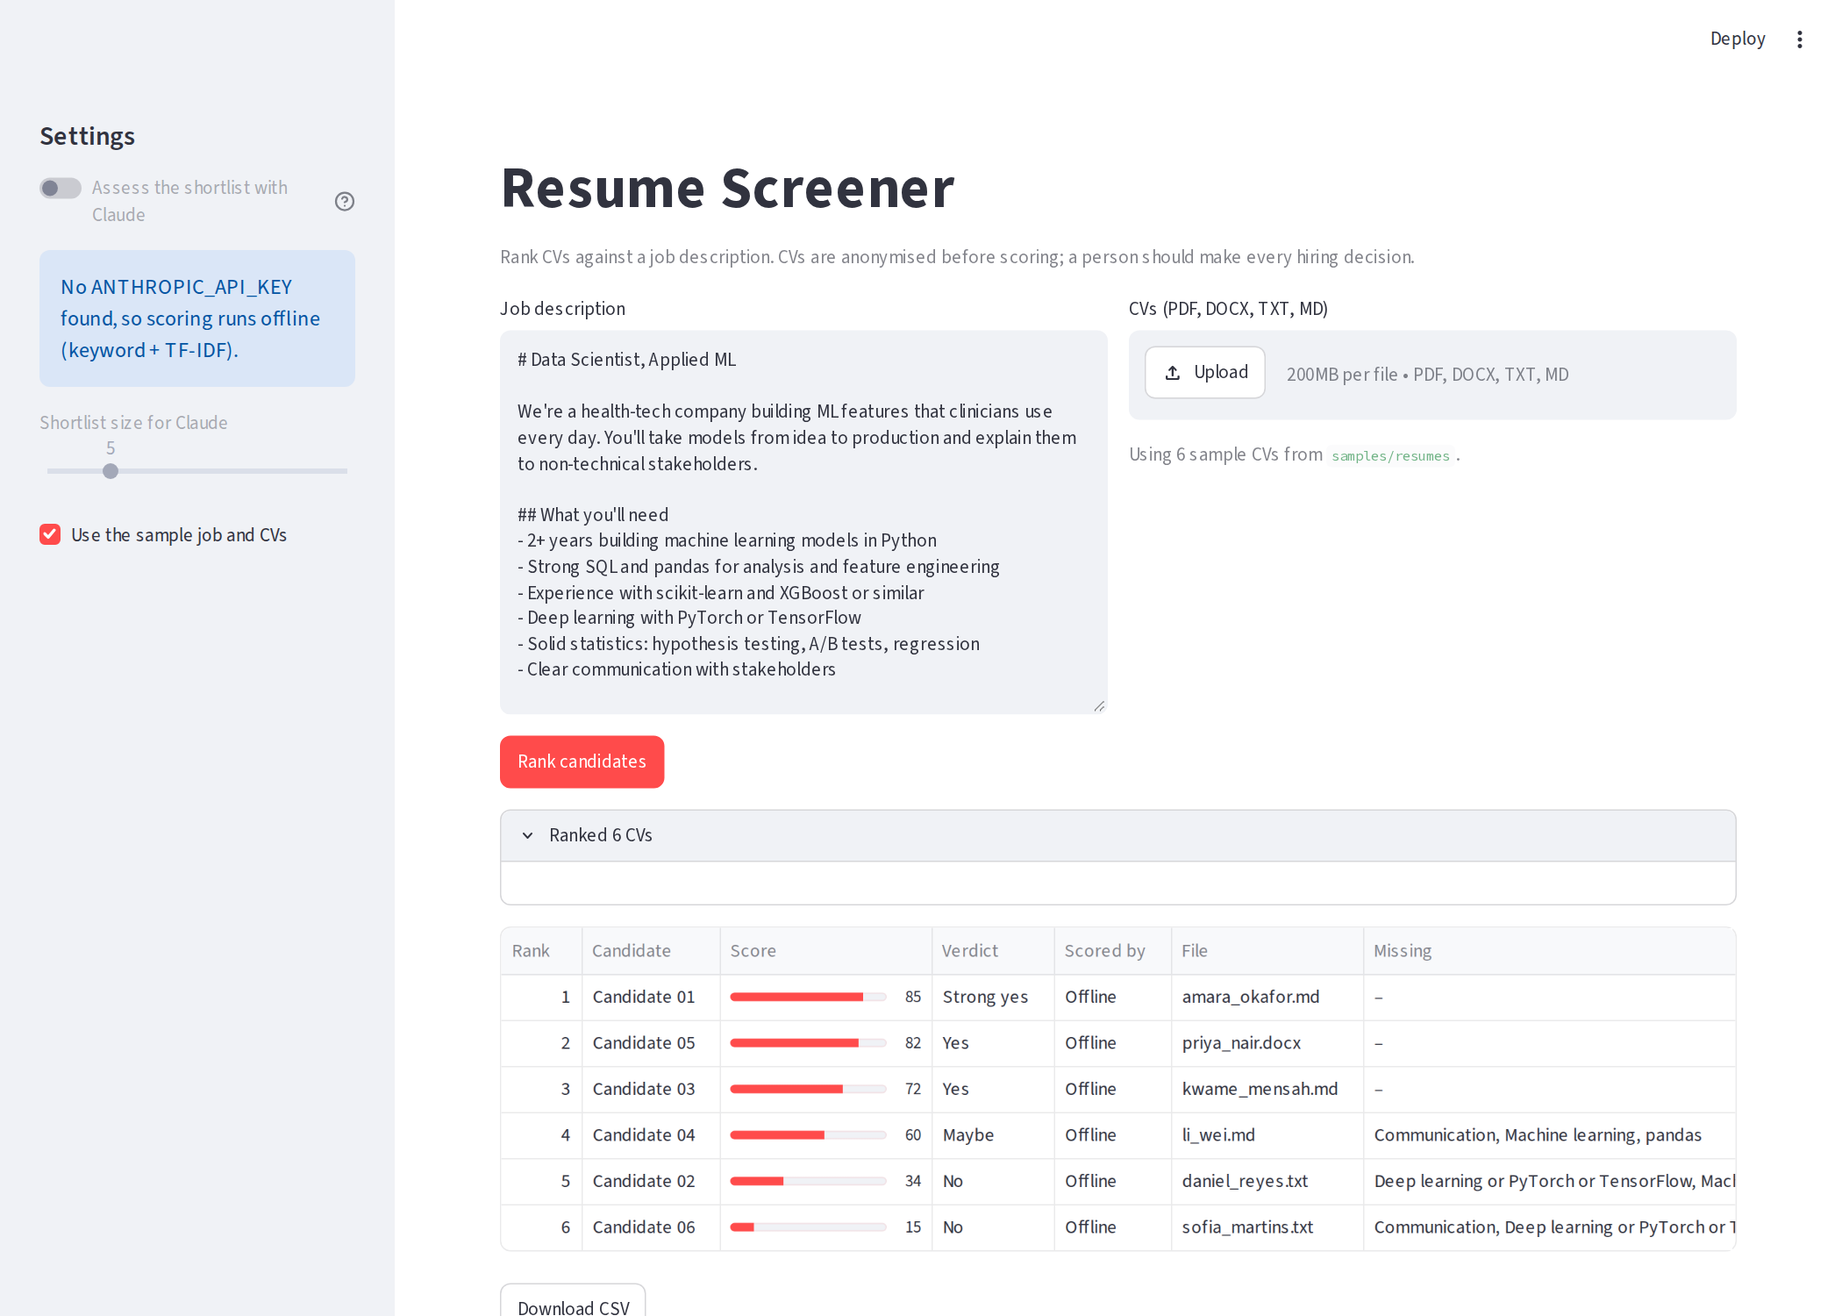
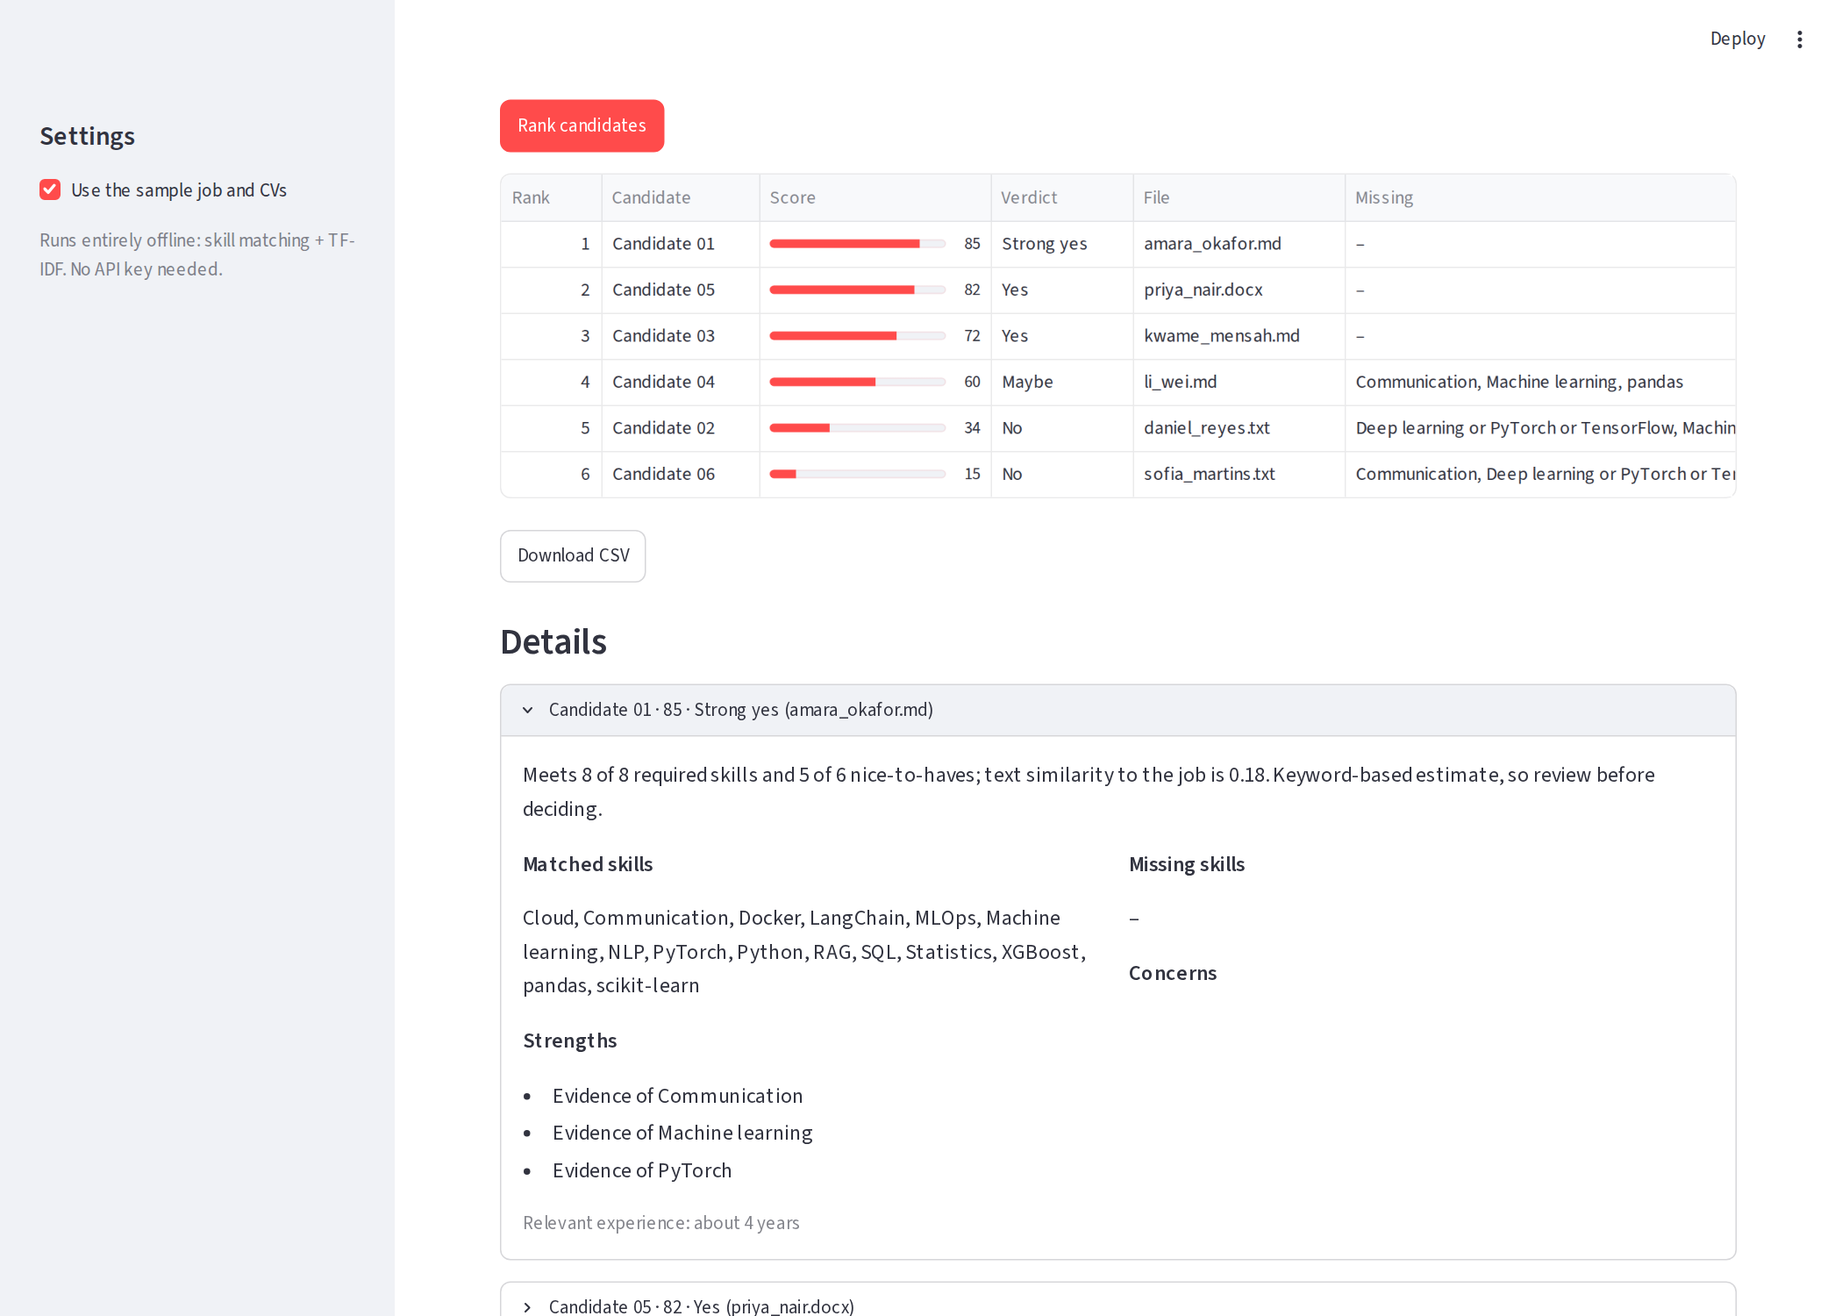
Remove the Claude step: fully offline, no API key needed

diff --git a/tests/test_screener.py b/tests/test_screener.py
@@ -1,23 +1,11 @@
 from pathlib import Path
-from types import SimpleNamespace
-from unittest.mock import MagicMock
-
-import pytest
-from langchain_core.documents import Document
 
 from resume_screener import ResumeLoader, screen
 from resume_screener.anonymize import anonymize_text
-from resume_screener.claude import RefusedError, build_chain
 from resume_screener.offline import assess, split_job_skills
-from resume_screener.schema import CandidateAssessment
 
 SAMPLES = Path(__file__).parent.parent / "samples"
 JOB = (SAMPLES / "job_description.md").read_text()
-
-
-def fake_assessment(score: int) -> CandidateAssessment:
-    return CandidateAssessment(match_score=score, recommendation="yes", summary="ok", matched_skills=["Python"],
-                               missing_skills=[], strengths=["s"], concerns=[], years_experience=3)
 
 
 # ── anonymisation
@@ -57,50 +45,13 @@ def test_offline_ranks_relevant_cv_above_unrelated():
     assert 0 <= weak.match_score <= 100 and strong.recommendation in {"yes", "strong_yes"}
 
 
-# ── Claude chain (mocked: no network)
-
-def mocked_client(parsed, stop_reason="end_turn"):
-    client = MagicMock()
-    client.beta.messages.parse.return_value = SimpleNamespace(parsed_output=parsed, stop_reason=stop_reason)
-    return client
-
-
-def test_claude_chain_sends_anonymised_cv_and_schema():
-    client = mocked_client(fake_assessment(88))
-    result = build_chain(client).invoke({"job": "Need Python", "cv": "[CANDIDATE]\nPython for 5 years"})
-    assert result.match_score == 88
-    kwargs = client.beta.messages.parse.call_args.kwargs
-    assert kwargs["output_format"] is CandidateAssessment
-    assert kwargs["model"] == "claude-opus-5"
-    assert kwargs["fallbacks"] == "default"
-    assert "<cv>\n[CANDIDATE]\nPython for 5 years\n</cv>" in kwargs["messages"][0]["content"]
-    assert "protected characteristic" in kwargs["system"]
-
-
-def test_claude_refusal_raises():
-    with pytest.raises(RefusedError):
-        build_chain(mocked_client(None, "refusal")).invoke({"job": "j", "cv": "c"})
-
-
 # ── pipeline
 
-def test_pipeline_only_sends_shortlist_to_claude():
+def test_pipeline_ranks_and_anonymises():
     docs = ResumeLoader(SAMPLES / "resumes").load()
-    chain = MagicMock()
-    chain.invoke.return_value = fake_assessment(99)
-    ranking = screen(docs, JOB, claude_chain=chain, shortlist=2)
-    assert chain.invoke.call_count == 2
-    assert [r.method for r in ranking].count("claude") == 2
+    ranking = screen(docs, JOB)
     assert len(ranking) == len(docs)
-    assert ranking[0].assessment.match_score == 99
-    # Claude never sees names or emails
-    for call in chain.invoke.call_args_list:
-        assert "@example" not in call.args[0]["cv"]
-
-
-def test_pipeline_keeps_offline_score_when_claude_refuses():
-    chain = MagicMock()
-    chain.invoke.side_effect = RefusedError("declined")
-    docs = [Document(page_content="Python SQL pandas machine learning", metadata={"source": "a.txt"})]
-    ranking = screen(docs, JOB, claude_chain=chain, shortlist=1)
-    assert ranking[0].method == "offline"
+    scores = [r.assessment.match_score for r in ranking]
+    assert scores == sorted(scores, reverse=True)
+    assert ranking[0].source == "amara_okafor.md" and ranking[-1].source == "sofia_martins.txt"
+    assert all(r.candidate_id.startswith("Candidate ") for r in ranking)

diff --git a/resume_screener/cli.py b/resume_screener/cli.py
@@ -2,15 +2,13 @@
 Command line:
 
     python -m resume_screener --job samples/job_description.md --resumes samples/resumes
-    python -m resume_screener --job jd.md --resumes cvs/ --shortlist 10 --csv ranking.csv
-    python -m resume_screener --job jd.md --resumes cvs/ --offline      # no API key needed
+    python -m resume_screener --job jd.md --resumes cvs/ --csv ranking.csv
 """
 
 from __future__ import annotations
 
 import argparse
 import csv
-import os
 import sys
 from pathlib import Path
 
@@ -24,8 +22,6 @@ def main(argv: list[str] | None = None) -> int:
     ap = argparse.ArgumentParser(prog="resume_screener", description="Rank CVs against a job description.")
     ap.add_argument("--job", required=True, help="job description file (.md or .txt)")
     ap.add_argument("--resumes", required=True, help="folder of CVs (.pdf, .docx, .txt, .md)")
-    ap.add_argument("--shortlist", type=int, default=5, help="how many top CVs Claude assesses (default 5)")
-    ap.add_argument("--offline", action="store_true", help="skip Claude; keyword + TF-IDF scoring only")
     ap.add_argument("--csv", help="also write the ranking to this CSV file")
     args = ap.parse_args(argv)
 
@@ -35,22 +31,13 @@ def main(argv: list[str] | None = None) -> int:
         print(f"No CVs found in {args.resumes}", file=sys.stderr)
         return 1
 
-    chain = None
-    if not args.offline:
-        if not (os.environ.get("ANTHROPIC_API_KEY") or os.environ.get("ANTHROPIC_AUTH_TOKEN")):
-            print("No ANTHROPIC_API_KEY set, so running offline. Set it to have Claude assess the shortlist.\n", file=sys.stderr)
-        else:
-            from .claude import build_chain
+    ranking = screen(docs, job)
 
-            chain = build_chain()
-
-    ranking = screen(docs, job, claude_chain=chain, shortlist=args.shortlist, on_progress=lambda m: print(m, file=sys.stderr))
-
-    print(f"\n{'#':>2}  {'Candidate':<13} {'Score':>5}  {'Verdict':<10} {'Scored by':<9}  File")
-    print("-" * 72)
+    print(f"\n{'#':>2}  {'Candidate':<13} {'Score':>5}  {'Verdict':<10} File")
+    print("-" * 60)
     for i, r in enumerate(ranking, 1):
         a = r.assessment
-        print(f"{i:>2}  {r.candidate_id:<13} {a.match_score:>5}  {LABEL[a.recommendation]:<10} {r.method:<9}  {r.source}")
+        print(f"{i:>2}  {r.candidate_id:<13} {a.match_score:>5}  {LABEL[a.recommendation]:<10} {r.source}")
     best = ranking[0].assessment
     print(f"\nTop candidate: {best.summary}")
     if best.missing_skills:
@@ -59,10 +46,10 @@ def main(argv: list[str] | None = None) -> int:
     if args.csv:
         with open(args.csv, "w", newline="", encoding="utf-8") as f:
             w = csv.writer(f)
-            w.writerow(["rank", "candidate", "file", "score", "recommendation", "method", "matched_skills", "missing_skills", "summary"])
+            w.writerow(["rank", "candidate", "file", "score", "recommendation", "matched_skills", "missing_skills", "summary"])
             for i, r in enumerate(ranking, 1):
                 a = r.assessment
-                w.writerow([i, r.candidate_id, r.source, a.match_score, a.recommendation, r.method,
+                w.writerow([i, r.candidate_id, r.source, a.match_score, a.recommendation,
                             "; ".join(a.matched_skills), "; ".join(a.missing_skills), a.summary])
         print(f"\nWrote {args.csv}")
     return 0

diff --git a/resume_screener/pipeline.py b/resume_screener/pipeline.py
@@ -1,59 +1,28 @@
 """
-The screening pipeline:
+The screening pipeline (fully offline, no API key):
 
-    load CVs -> anonymise -> offline score (all) -> shortlist top N -> Claude assessment -> rank
-
-Claude only sees the shortlist, which keeps cost proportional to N rather than to the
-size of the applicant pool.
+    load CVs -> anonymise -> score (required skills, nice-to-haves, TF-IDF) -> rank
 """
 
 from __future__ import annotations
 
-from collections.abc import Callable, Iterable
+from collections.abc import Iterable
 
 from langchain_core.documents import Document
-from langchain_core.runnables import Runnable
+from langchain_core.runnables import RunnableLambda
 
 from . import offline
 from .anonymize import anonymize
-from .claude import RefusedError
 from .schema import RankedCandidate
 
 
-def screen(
-    docs: Iterable[Document],
-    job: str,
-    *,
-    claude_chain: Runnable | None = None,
-    shortlist: int = 5,
-    on_progress: Callable[[str], None] | None = None,
-) -> list[RankedCandidate]:
-    """Rank CVs for a job. With no claude_chain, everything is scored offline."""
-    say = on_progress or (lambda _: None)
-    blind = [anonymize(d) for d in docs]
-    ids = {d.metadata["source"]: f"Candidate {i + 1:02d}" for i, d in enumerate(blind)}
-
-    first_pass = sorted(
-        (
-            RankedCandidate(candidate_id=ids[d.metadata["source"]], source=d.metadata["source"],
-                            assessment=offline.assess(d.page_content, job), method="offline")
-            for d in blind
-        ),
-        key=lambda r: r.assessment.match_score,
-        reverse=True,
-    )
-    if claude_chain is None:
-        return first_pass
-
-    by_source = {d.metadata["source"]: d for d in blind}
-    top, rest = first_pass[:shortlist], first_pass[shortlist:]
-    results: list[RankedCandidate] = []
-    for i, r in enumerate(top, 1):
-        say(f"Claude is assessing {r.candidate_id} ({i}/{len(top)})")
-        try:
-            assessment = claude_chain.invoke({"job": job, "cv": by_source[r.source].page_content})
-            results.append(r.model_copy(update={"assessment": assessment, "method": "claude"}))
-        except RefusedError:
-            results.append(r)  # keep the offline score rather than drop the candidate
-    results.sort(key=lambda r: r.assessment.match_score, reverse=True)
-    return results + rest
+def screen(docs: Iterable[Document], job: str) -> list[RankedCandidate]:
+    """Rank CVs for a job, best first."""
+    # LangChain runnable: Document -> anonymised Document
+    blind = RunnableLambda(anonymize).batch(list(docs))
+    ranked = [
+        RankedCandidate(candidate_id=f"Candidate {i + 1:02d}", source=d.metadata["source"],
+                        assessment=offline.assess(d.page_content, job))
+        for i, d in enumerate(blind)
+    ]
+    return sorted(ranked, key=lambda r: r.assessment.match_score, reverse=True)

diff --git a/app.py b/app.py
@@ -2,7 +2,6 @@
 
 from __future__ import annotations
 
-import os
 from pathlib import Path
 
 import pandas as pd
@@ -19,13 +18,8 @@ st.caption("Rank CVs against a job description. CVs are anonymised before scorin
 
 with st.sidebar:
     st.header("Settings")
-    has_key = bool(os.environ.get("ANTHROPIC_API_KEY") or os.environ.get("ANTHROPIC_AUTH_TOKEN"))
-    use_claude = st.toggle("Assess the shortlist with Claude", value=has_key, disabled=not has_key,
-                           help="Needs ANTHROPIC_API_KEY. Off = free keyword + TF-IDF scoring.")
-    if not has_key:
-        st.info("No ANTHROPIC_API_KEY found, so scoring runs offline (keyword + TF-IDF).")
-    shortlist = st.slider("Shortlist size for Claude", 1, 20, 5, disabled=not use_claude)
     use_samples = st.checkbox("Use the sample job and CVs", value=True)
+    st.caption("Runs entirely offline: skill matching + TF-IDF. No API key needed.")
 
 left, right = st.columns([1, 1])
 with left:
@@ -43,18 +37,11 @@ if st.button("Rank candidates", type="primary", disabled=not job.strip()):
         st.warning("Add at least one CV.")
         st.stop()
 
-    chain = None
-    if use_claude:
-        from resume_screener.claude import build_chain
-
-        chain = build_chain()
-    with st.status("Screening…", expanded=False) as status:
-        ranking = screen(docs, job, claude_chain=chain, shortlist=shortlist, on_progress=status.write)
-        status.update(label=f"Ranked {len(ranking)} CVs", state="complete")
+    ranking = screen(docs, job)
 
     table = pd.DataFrame([{
         "Rank": i, "Candidate": r.candidate_id, "Score": r.assessment.match_score,
-        "Verdict": LABEL[r.assessment.recommendation], "Scored by": r.method.title(), "File": r.source,
+        "Verdict": LABEL[r.assessment.recommendation], "File": r.source,
         "Missing": ", ".join(r.assessment.missing_skills) or "–",
     } for i, r in enumerate(ranking, 1)])
     st.dataframe(table, hide_index=True, use_container_width=True,

diff --git a/resume_screener/offline.py b/resume_screener/offline.py
@@ -1,9 +1,8 @@
 """
-Offline screener: no API key, no network.
+Scorer: no API key, no network.
 
 Scores a CV by (a) how many of the job's required and preferred skills it evidences and
-(b) TF-IDF similarity to the job description. Used on its own for a free first pass, and
-by the pipeline to shortlist CVs before sending only the best ones to Claude.
+(b) TF-IDF similarity to the job description.
 """
 
 from __future__ import annotations

diff --git a/resume_screener/schema.py b/resume_screener/schema.py
@@ -1,4 +1,4 @@
-"""The structured assessment every screener (Claude or offline) returns for one CV."""
+"""The structured assessment returned for each CV."""
 
 from __future__ import annotations
 
@@ -26,4 +26,3 @@ class RankedCandidate(BaseModel):
     candidate_id: str
     source: str
     assessment: CandidateAssessment
-    method: Literal["claude", "offline"]

diff --git a/resume_screener/__init__.py b/resume_screener/__init__.py
@@ -1,4 +1,4 @@
-"""Rank CVs against a job description with LangChain and Claude."""
+"""Rank CVs against a job description with LangChain."""
 
 from .loaders import ResumeLoader, UploadedResumeLoader
 from .pipeline import screen

diff --git a/README.md b/README.md
@@ -1,6 +1,6 @@
-# Resume Screening Tool with LangChain + Claude
+# Resume Screening Tool with LangChain
 
-Rank a pile of CVs against a job description in seconds. A free keyword + TF-IDF pass scores every CV, then Claude reads the shortlist and returns a structured, evidence-based assessment of each candidate.
+Rank a pile of CVs against a job description in seconds. Every CV is anonymised, then scored on the job's required skills, nice-to-haves and text similarity, with an explainable breakdown. Runs fully offline: no API key, no cost.
 
 ![Streamlit app ranking six sample CVs](docs/screenshot.png)
 
@@ -10,19 +10,14 @@ Rank a pile of CVs against a job description in seconds. A free keyword + TF-IDF
 flowchart LR
     A[CVs: PDF / DOCX / TXT / MD] --> B[LangChain loaders]
     B --> C[Anonymise<br/>names, emails, phones, DOB]
-    C --> D[Offline scorer<br/>skills + TF-IDF]
-    D -->|top N| E[LangChain prompt → Claude<br/>structured output]
-    D -->|rest| F[Ranking]
-    E --> F
+    C --> D[Score<br/>required skills · nice-to-haves · TF-IDF]
+    D --> E[Ranking + explanation]
 ```
 
 1. **Load:** custom LangChain `BaseLoader`s turn PDFs, Word files and text into `Document`s.
 2. **Blind screening:** names, emails, phone numbers, links and personal fields (date of birth, gender, nationality…) are removed before anything is scored.
-3. **Offline pass (free):** each CV is scored on the job's required and nice-to-have skills (either/or requirements like *"PyTorch or TensorFlow"* count once) plus TF-IDF similarity.
-4. **Claude pass:** only the top *N* go to Claude through a LangChain `ChatPromptTemplate`. The Anthropic SDK's structured outputs return a validated `CandidateAssessment` (score, verdict, matched and missing skills, strengths, concerns), so there's no JSON parsing to break.
-5. **Rank:** Claude-assessed candidates are re-ranked; if Claude declines one, it keeps its offline score instead of disappearing.
-
-Cost scales with the shortlist, not the applicant pool.
+3. **Score:** each CV is scored on the job's required skills (60%), nice-to-haves (15%) and TF-IDF similarity (25%). Either/or requirements like *"PyTorch or TensorFlow"* count once.
+4. **Explain:** every result is a validated Pydantic `CandidateAssessment` with the score, verdict, matched and missing skills, strengths and concerns.
 
 ## Quick start
 
@@ -30,28 +25,23 @@ Cost scales with the shortlist, not the applicant pool.
 python -m venv .venv && source .venv/bin/activate
 pip install -r requirements.txt
 
-# works immediately, no API key needed
-python -m resume_screener --job samples/job_description.md --resumes samples/resumes --offline
-
-# with Claude assessing the top 5
-export ANTHROPIC_API_KEY=sk-ant-...
-python -m resume_screener --job samples/job_description.md --resumes samples/resumes --shortlist 5 --csv ranking.csv
+python -m resume_screener --job samples/job_description.md --resumes samples/resumes --csv ranking.csv
 
 # web app
 streamlit run app.py
 ```
 
-Offline output on the sample data:
+Output on the sample data:
 
 ```
- #  Candidate     Score  Verdict    Scored by  File
-------------------------------------------------------------------------
- 1  Candidate 01     85  Strong yes offline    amara_okafor.md
- 2  Candidate 05     82  Yes        offline    priya_nair.docx
- 3  Candidate 03     72  Yes        offline    kwame_mensah.md
- 4  Candidate 04     60  Maybe      offline    li_wei.md
- 5  Candidate 02     34  No         offline    daniel_reyes.txt
- 6  Candidate 06     15  No         offline    sofia_martins.txt
+ #  Candidate     Score  Verdict    File
+------------------------------------------------------------
+ 1  Candidate 01     85  Strong yes amara_okafor.md
+ 2  Candidate 05     82  Yes        priya_nair.docx
+ 3  Candidate 03     72  Yes        kwame_mensah.md
+ 4  Candidate 04     60  Maybe      li_wei.md
+ 5  Candidate 02     34  No         daniel_reyes.txt
+ 6  Candidate 06     15  No         sofia_martins.txt
 ```
 
 The six sample CVs are fictional and cover a deliberate spread: a strong ML engineer, a senior data scientist, a graduate, an NLP researcher, a data analyst and a frontend developer.
@@ -59,8 +49,9 @@ The six sample CVs are fictional and cover a deliberate spread: a strong ML engi
 ## Responsible use
 
 - **Decision support, not decision making.** Scores help prioritise reading; a person should review every candidate and make every decision.
-- **Anonymised by default.** Claude is told never to infer or mention protected characteristics and not to penalise career breaks. Anonymisation reduces bias but is not a guarantee, since names can appear inside free text.
-- **Explainable.** Every score comes with the matched and missing skills and the evidence behind strengths and concerns.
+- **Anonymised by default.** Scoring never sees names, contact details or personal fields. Anonymisation reduces bias but is not a guarantee, since names can appear inside free text.
+- **Explainable.** Every score comes with the matched and missing skills behind it.
+- **Keyword-based.** It rewards CVs that name the skills; a strong candidate who describes them differently can score lower, so read beyond the top of the list.
 - Automated screening is regulated in some places (for example UK GDPR Article 22 and the EU AI Act, which treats recruitment AI as high-risk). Check what applies before using this on real applicants.
 
 ## Project structure
@@ -70,13 +61,12 @@ resume_screener/
 ├── loaders.py     # LangChain document loaders (PDF, DOCX, TXT, MD, uploads)
 ├── anonymize.py   # blind-screening redaction
 ├── offline.py     # skill extraction + TF-IDF scorer
-├── claude.py      # LangChain prompt → Claude structured output
-├── pipeline.py    # anonymise → shortlist → assess → rank
+├── pipeline.py    # anonymise → score → rank
 ├── schema.py      # CandidateAssessment (Pydantic)
 └── cli.py         # command line
 app.py             # Streamlit UI
 samples/           # sample job description + 6 fictional CVs
-tests/             # 9 tests; the Claude client is mocked, so no API calls
+tests/             # unit tests
 ```
 
 ## Tests
@@ -88,4 +78,4 @@ pytest
 
 ## Tech stack
 
-Python · LangChain (core) · Claude (Anthropic SDK, structured outputs) · Pydantic · scikit-learn · pypdf · Streamlit · pytest
+Python · LangChain (core) · Pydantic · scikit-learn (TF-IDF) · pypdf · Streamlit · pytest
